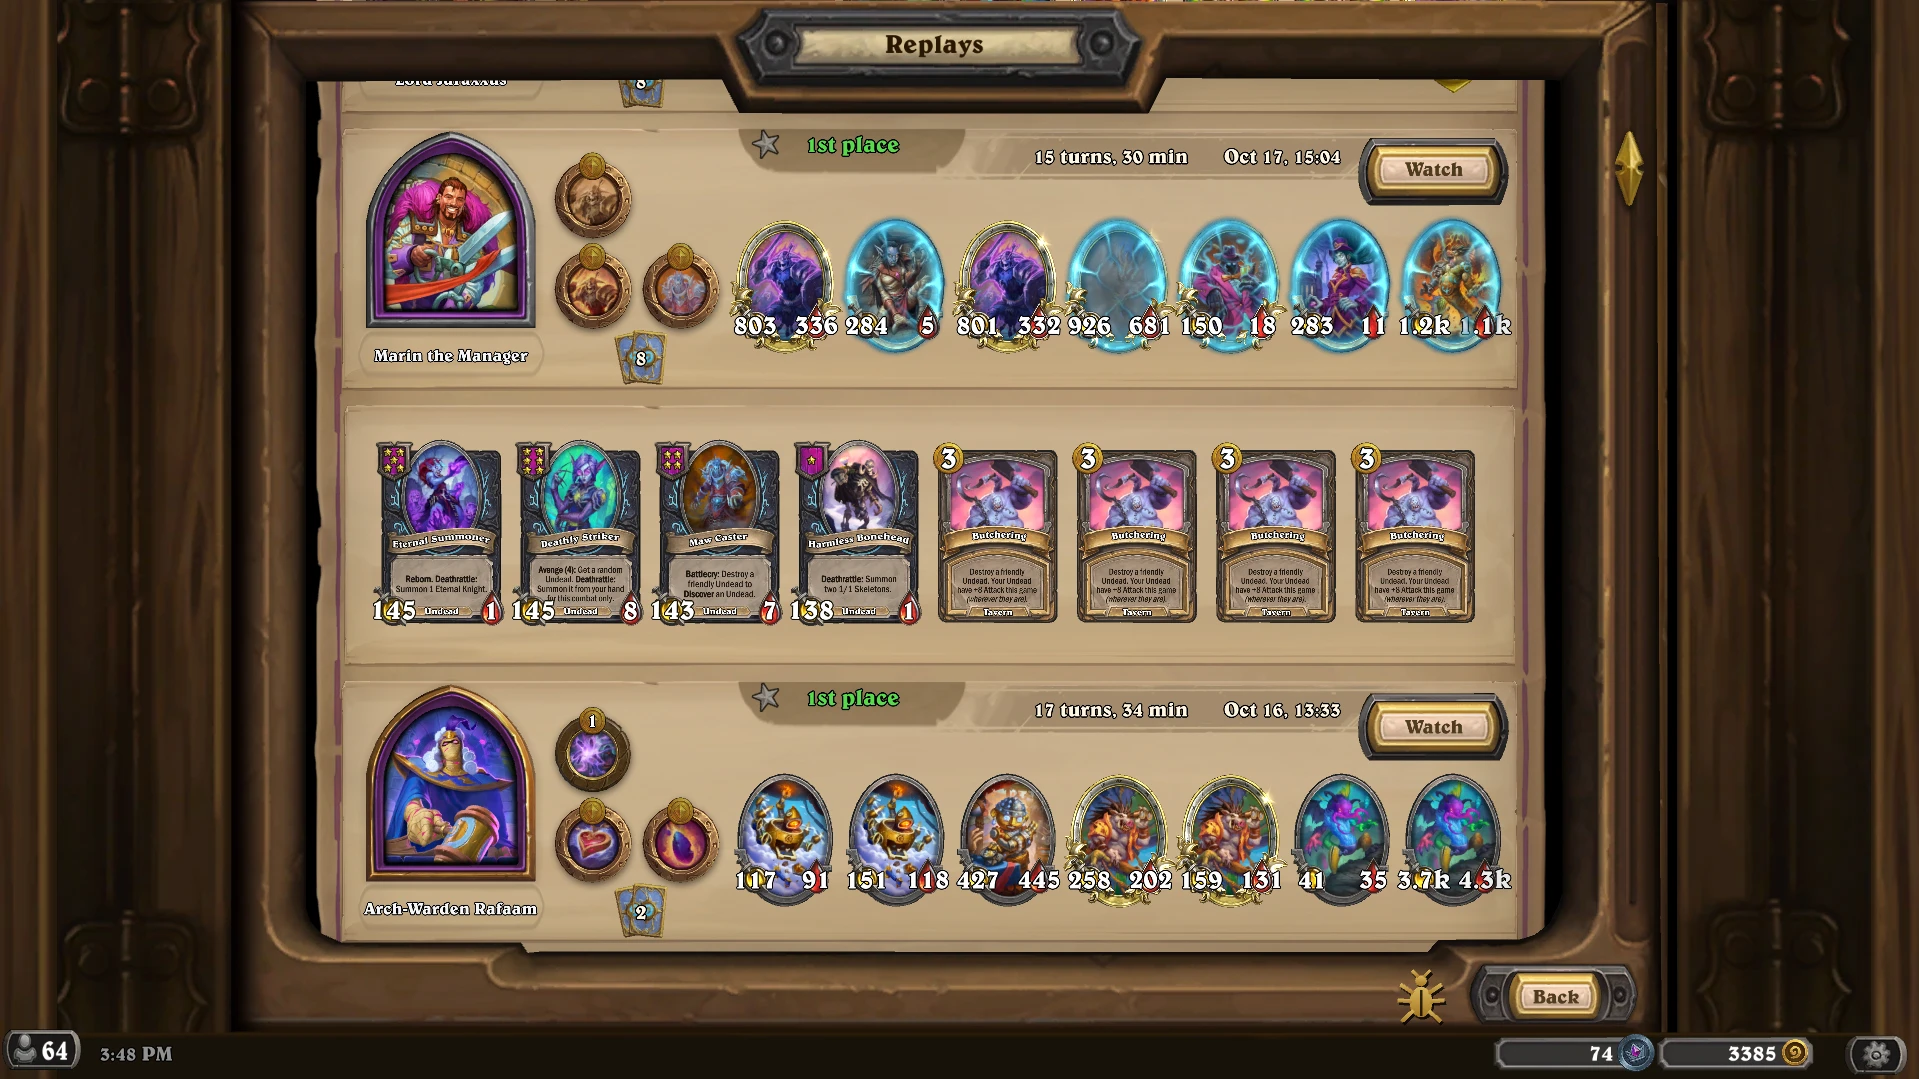
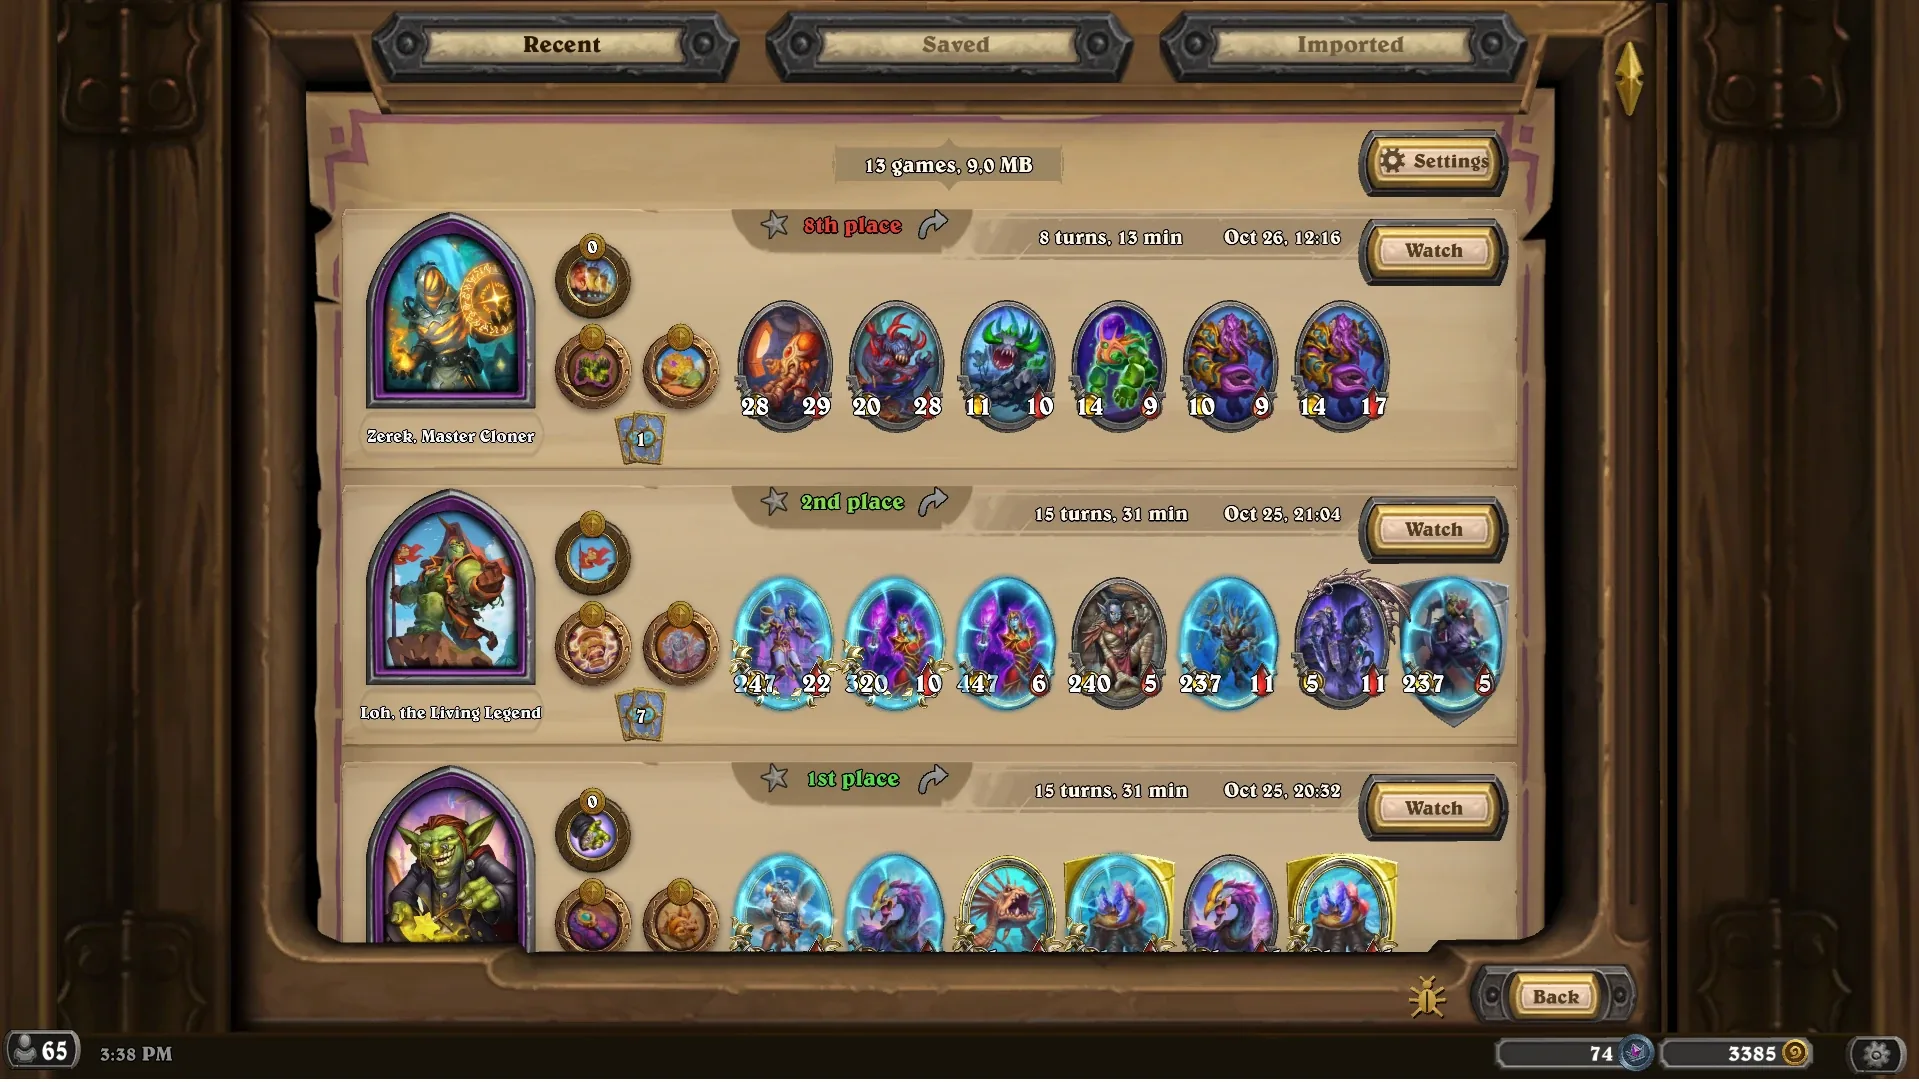
Show the tabs, the imported list and a hover card in the README
The page screenshot still had the old title with its arrows. Replaces it
with the Recent tab, and adds the Imported list and a hero power hovered
with its quest and reward. Also drops the star from the bin's line: an
imported row has the bin in its place, not beside it.

diff --git a/README.md b/README.md
@@ -7,7 +7,7 @@ jump to any moment, step through a fight, or watch at up to x4.
 **Beta.** Expect rough edges, and please report them: the bug button opens a
 [bug report](../../issues) with the details already filled in.
 
-![The Replays page: one card per game with hero, hero powers, trinkets, final board, place and length, and one game's final hand opened under its card](images/replays-page.webp)
+![The Replays page: the Recent tab, one card per game with hero, hero powers, trinkets, final board and hand, place, date and length](images/replays-page.webp)
 
 ![A replay in the shop, with the replay bar and its timeline at the top of the screen](images/replay-bar.webp)
 
@@ -26,6 +26,8 @@ jump to any moment, step through a fight, or watch at up to x4.
 - **Hover a card's icons** to read them: hero powers, trinkets and quests as they ended the game, counters and
   grown numbers included. A hero power a quest traded away shows with that quest and its reward.
 
+![A hero power hovered on a card: Whodunit? beside the quest it was traded for, Round Up the Suspects, and that quest's reward, Temporal Tampering](images/hover-cards.webp)
+
 ## Sharing replays
 
 - **Send:** click the arrow next to a game's place. The game is copied to your clipboard as a file: press
@@ -33,8 +35,10 @@ jump to any moment, step through a fight, or watch at up to x4.
 - **Receive:** copy the file you got (in Explorer) and press **Ctrl+V** on the Replays page, or use **Import**
   in the Imported list, or drop it into the `Imported` folder. Import also takes a `Power.log` from Hearthstone's
   `Logs` folder and turns its Battlegrounds games into replays.
-- **Remove** an imported game with the bin next to its star. **Settings** can turn off the "are you sure"
+- **Remove** an imported game with the bin on its card. **Settings** can turn off the "are you sure"
   prompts for removing games.
+
+![The Imported tab: games imported from shared files and from a Power.log, each with a bin in place of its star](images/replays-imported.webp)
 
 A shared file has your account's session passwords and your PC's name and device id removed. An imported file
 is checked line by line before the watcher uses it, and only a clean copy rebuilt from it is kept.
